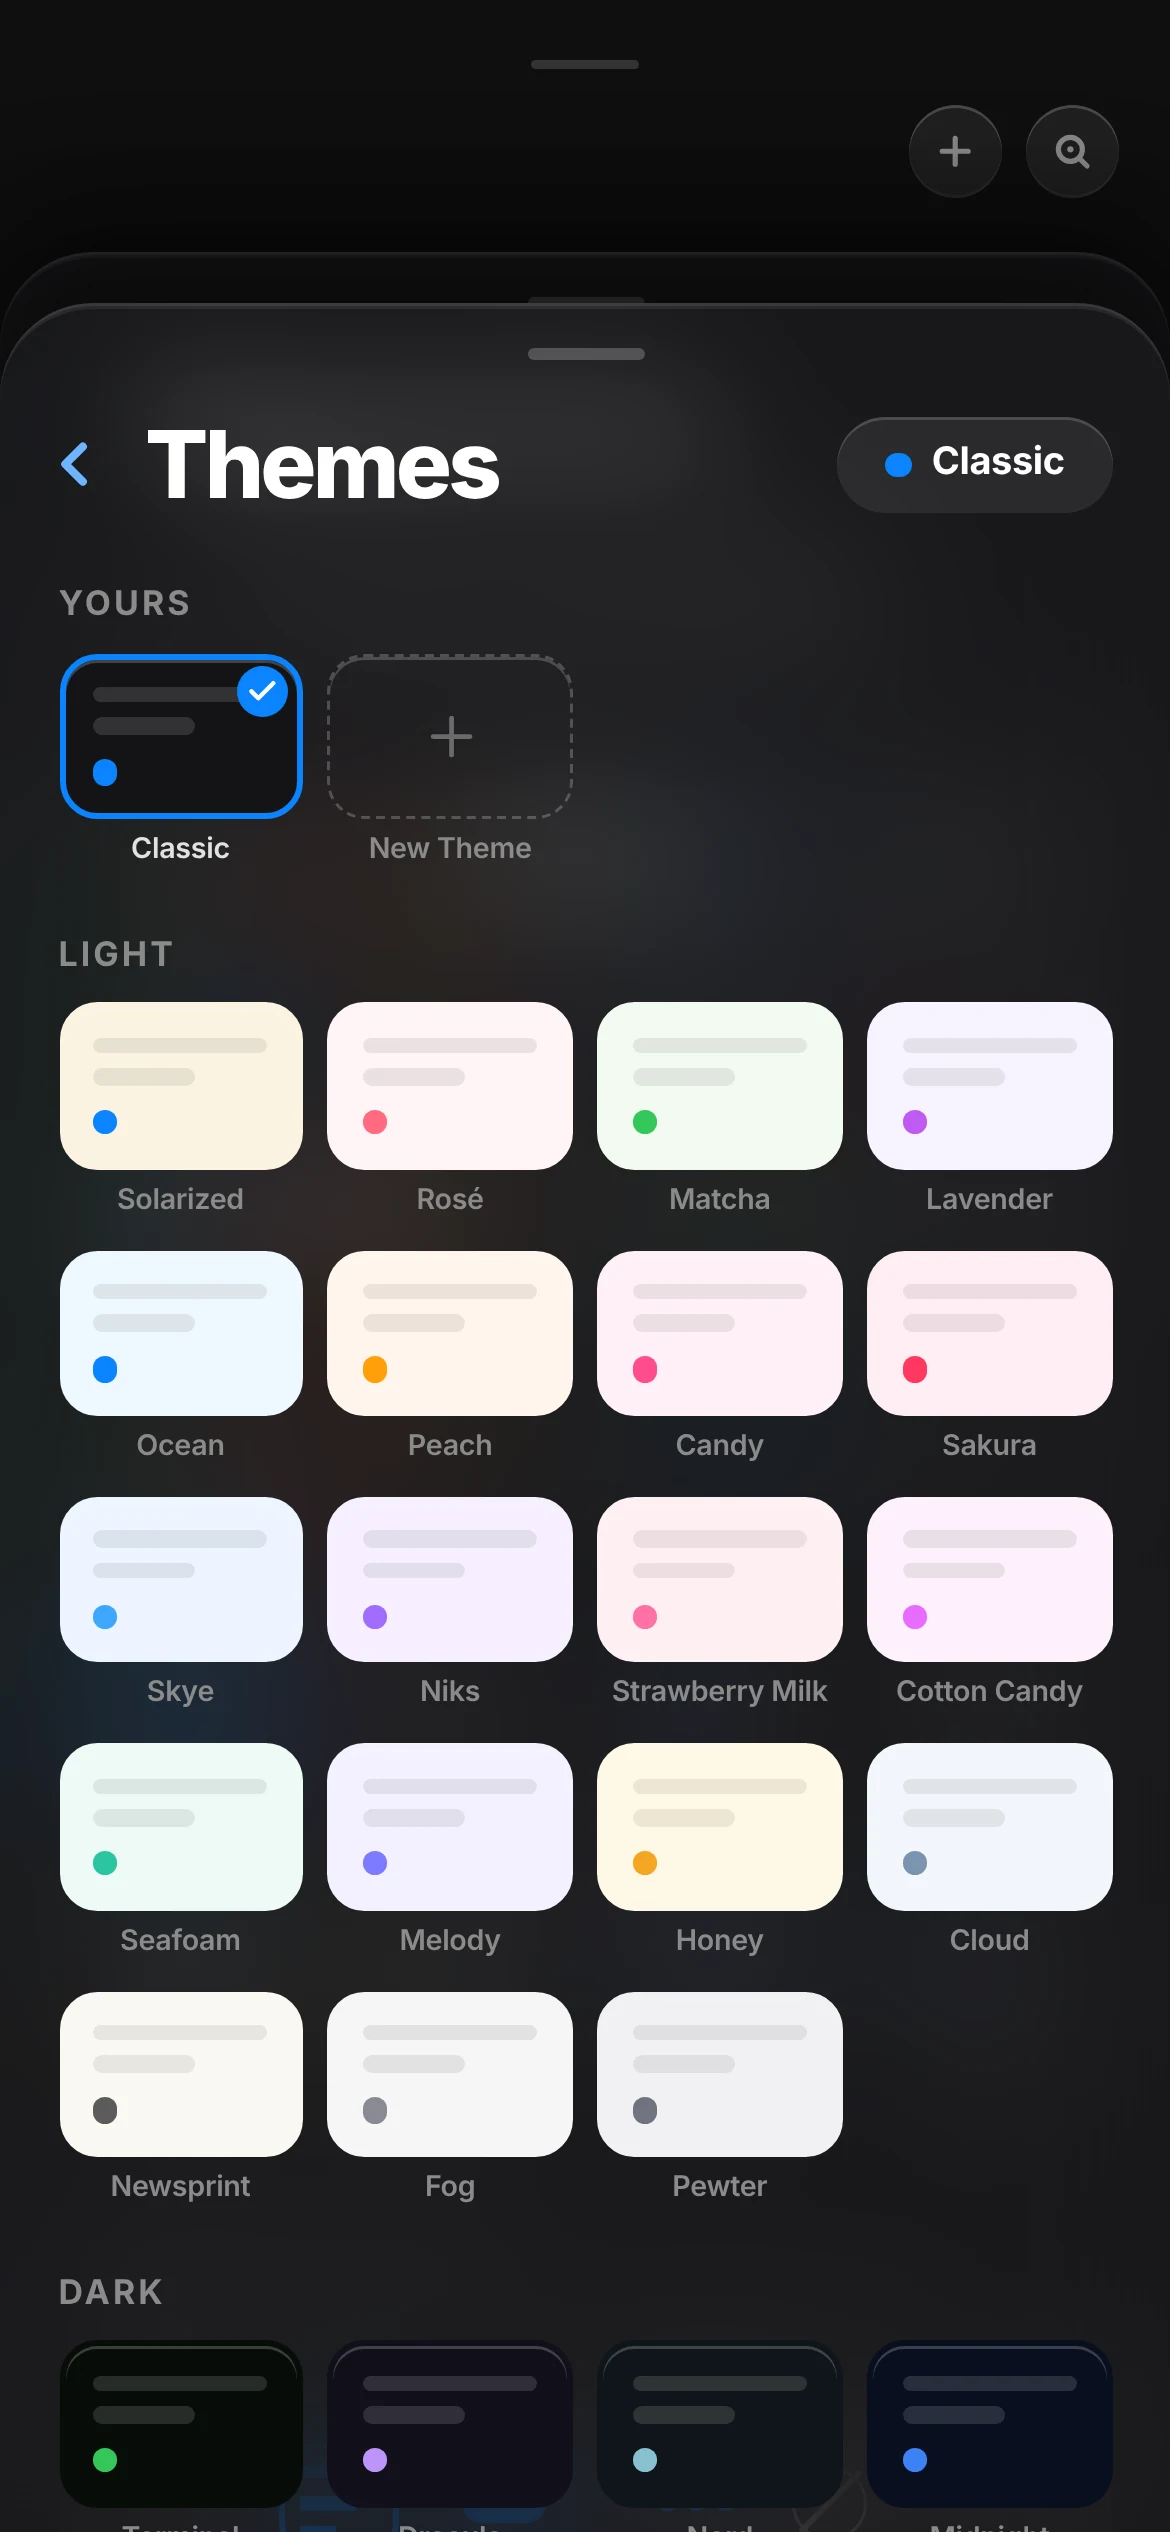
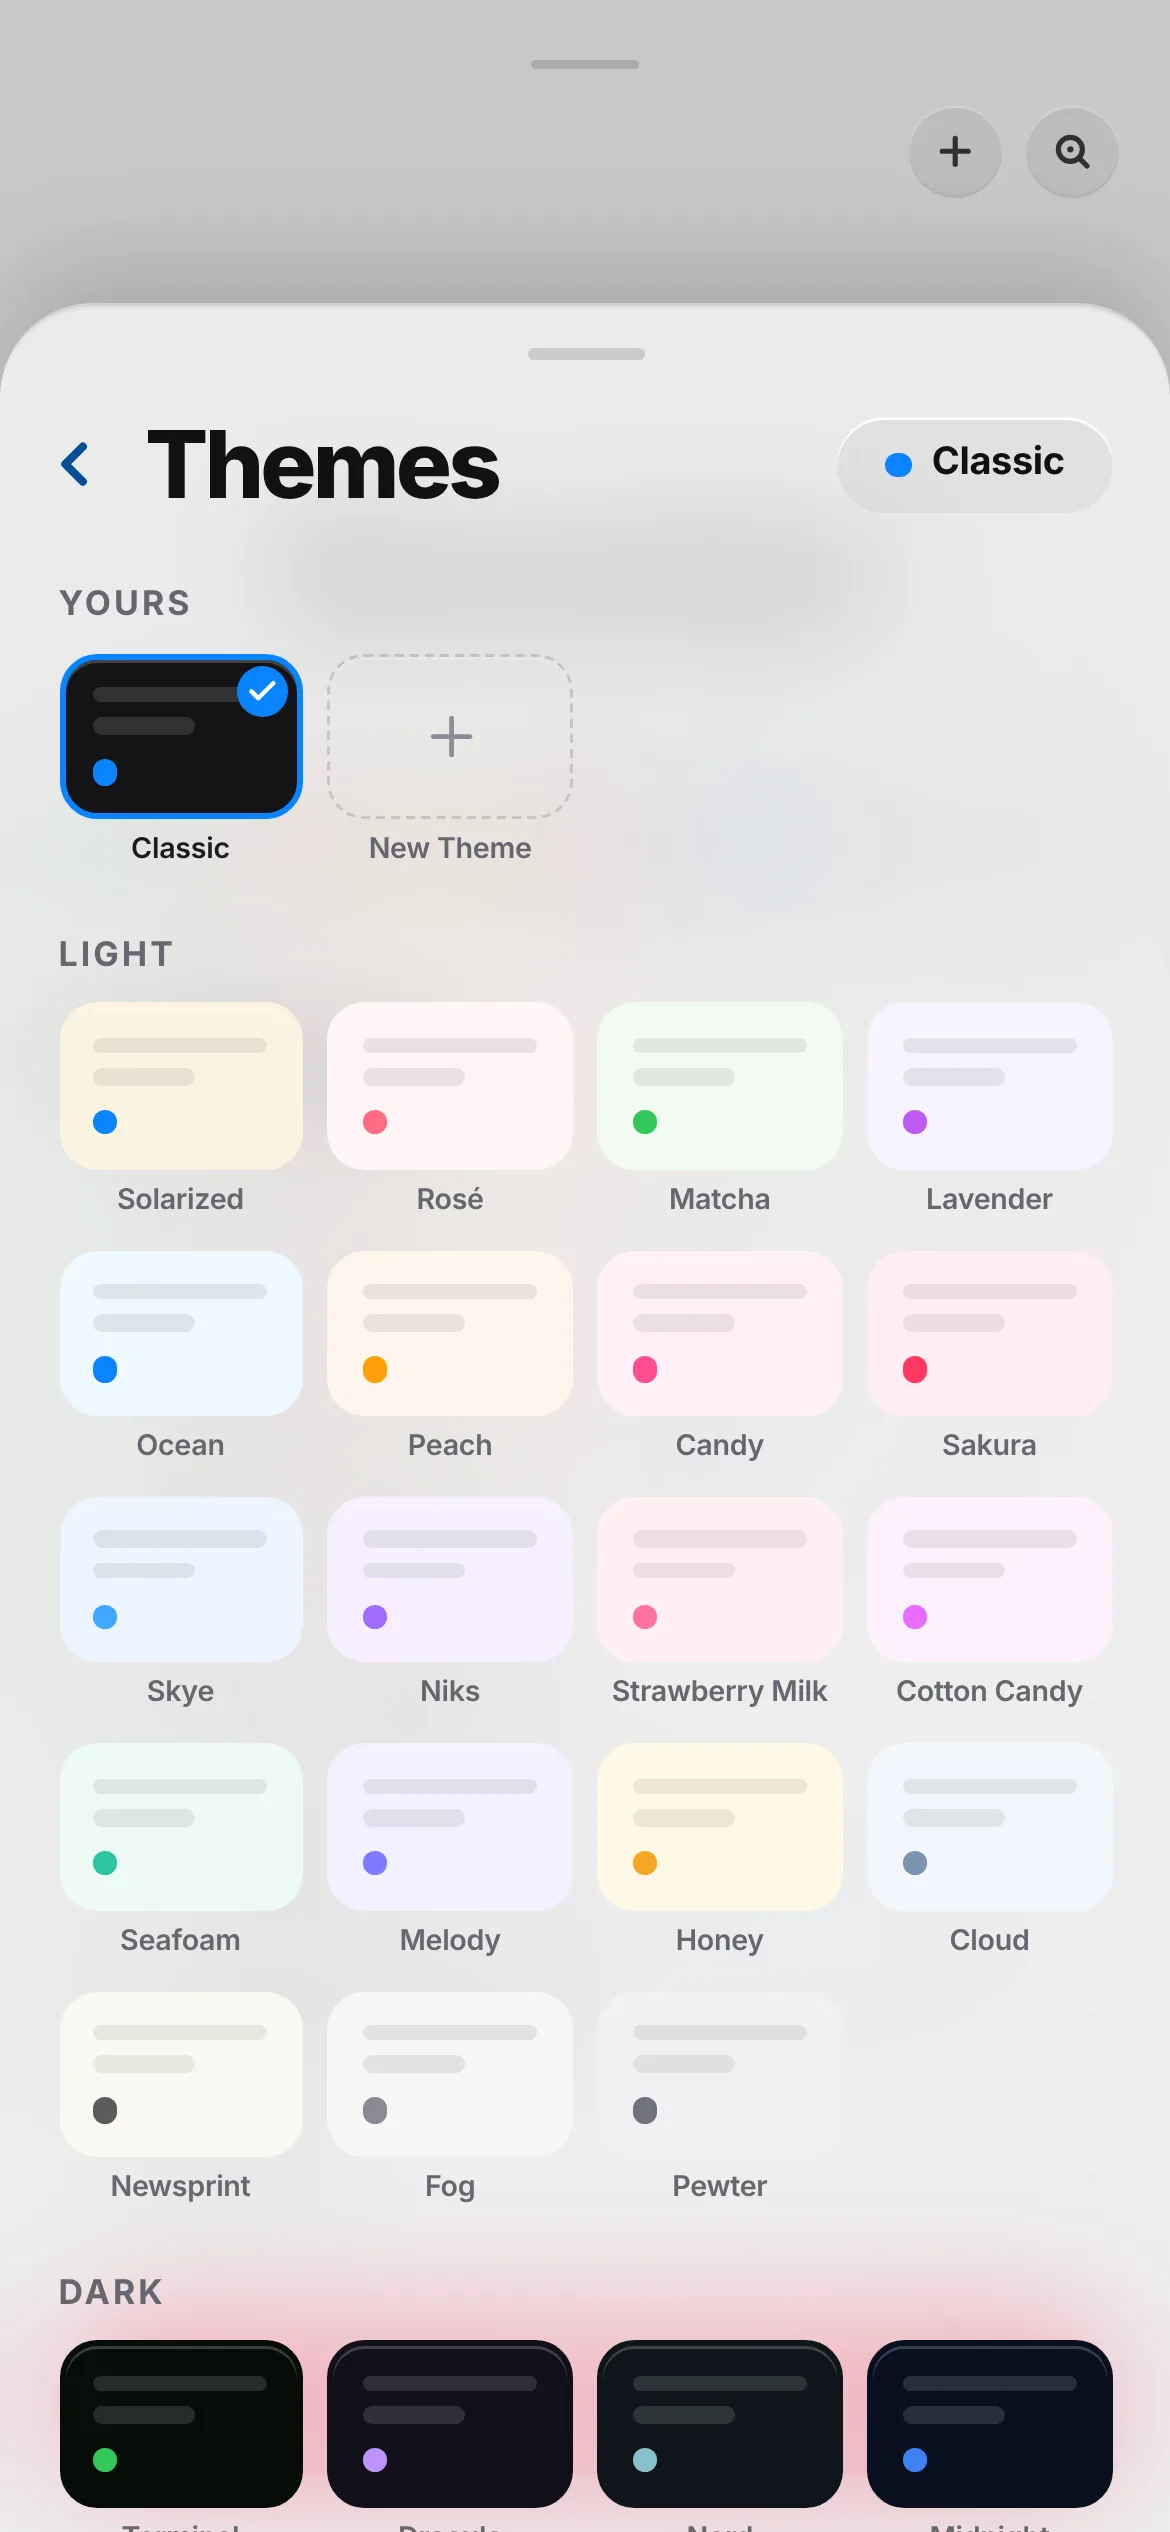
Shoot the screens in light mode and tidy the pinned phone
- Regenerate all seven screenshots from the real app in its light theme,
  so the gallery no longer mixes dark and light frames.
- Give the phone a firmer edge and shadow so a light screenshot still
  reads as a device on a light page.
- On mobile, pin a full-bleed band to the top of the viewport: the copy
  can no longer show above the phone or peek past its sides, and the
  bottom fades out instead of stopping at a hard edge.
- Pick the active screen by the caption nearest the reading line, so the
  phone never shows a screen whose words have already scrolled away.

diff --git a/src/styles/landing.css b/src/styles/landing.css
@@ -257,11 +257,12 @@
   aspect-ratio: 1170 / 2532;
   overflow: hidden;
   border-radius: 26px;
-  border: 1px solid var(--th-card-bd);
+  border: 1px solid rgba(0, 0, 0, .07);
   background: var(--th-card-bg);
   box-shadow:
-    0 1px 2px rgba(0, 0, 0, .04),
-    0 22px 56px rgba(0, 0, 0, .12);
+    0 0 0 1px rgba(0, 0, 0, .02),
+    0 2px 6px rgba(0, 0, 0, .05),
+    0 28px 64px rgba(0, 0, 0, .16);
 }
 
 .scr-shot {
@@ -344,28 +345,37 @@
     display: block;
   }
 
+  /* Full-bleed band from the very top of the viewport, so no copy can show
+     above the phone or peek past its side edges. */
   .scr-visual {
-    top: 76px;
+    top: 0;
     z-index: 2;
-    padding: 14px 0 22px;
+    margin-inline: calc(-1 * clamp(20px, 4vw, 32px));
+    padding: 82px clamp(20px, 4vw, 32px) 26px;
     background: var(--th-bg-page);
   }
 
+  /* The band is solid: no glow, so nothing spills past the viewport edge. */
+  .scr-visual::before {
+    display: none;
+  }
+
+  /* Copy dissolves into the band instead of stopping at a hard edge. */
   .scr-visual::after {
     content: "";
     position: absolute;
-    inset: auto 0 -22px;
-    height: 22px;
-    background: linear-gradient(to bottom, var(--th-bg-page), transparent);
+    inset: auto 0 -1px;
+    height: 26px;
+    background: linear-gradient(to bottom, var(--th-bg-page) 45%, transparent);
     pointer-events: none;
   }
 
   .scr-frame {
-    height: clamp(300px, 50vh, 430px);
+    height: clamp(280px, 44vh, 400px);
   }
 
   .scr-step {
-    min-height: 44vh;
+    min-height: 46vh;
   }
 
   .scr-name {

diff --git a/src/components/landing/screens.tsx b/src/components/landing/screens.tsx
@@ -70,15 +70,29 @@ export function Screens() {
     const steps = Array.from(list.querySelectorAll<HTMLElement>("[data-step]"));
     if (!steps.length) return;
 
+    const visual = list.parentElement?.querySelector<HTMLElement>(".scr-visual");
     let frame = 0;
 
+    // The screen follows whichever caption is closest to the reading line, not
+    // whichever block happens to have crossed it: that way the phone never
+    // shows a screen whose words have already scrolled away.
     const sync = () => {
       frame = 0;
+      const vh = window.innerHeight;
       const narrow = window.matchMedia("(max-width: 899px)").matches;
-      const line = window.innerHeight * (narrow ? 0.68 : 0.45);
+      const bandBottom =
+        narrow && visual ? Math.min(visual.getBoundingClientRect().bottom, vh) : 0;
+      const target = narrow ? bandBottom + (vh - bandBottom) * 0.5 : vh * 0.45;
+
       let next = 0;
+      let closest = Infinity;
       for (let i = 0; i < steps.length; i += 1) {
-        if (steps[i].getBoundingClientRect().top <= line) next = i;
+        const box = steps[i].getBoundingClientRect();
+        const distance = Math.abs(box.top + box.height / 2 - target);
+        if (distance < closest) {
+          closest = distance;
+          next = i;
+        }
       }
       setActive((prev) => (prev === next ? prev : next));
     };
